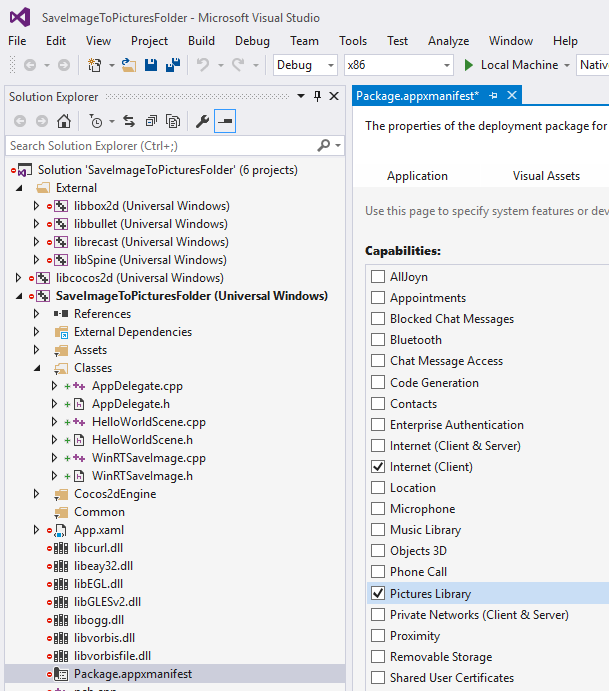
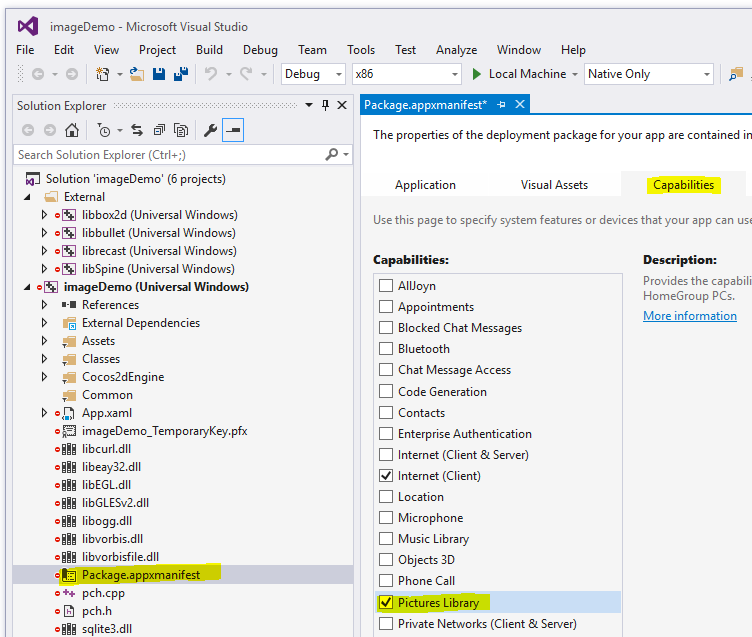
updated readme

Changed region(s): [[0.0, 0.0, 1.0, 1.0]]

diff --git a/examples/SaveImageToPicturesFolder/README.md b/examples/SaveImageToPicturesFolder/README.md
@@ -1,1 +1,59 @@
-# cocos2d-x-win10-examples
+# How to Save a Cocos2d-x Screen Capture Image to a User's Pictures Folder (Windows 10 and Windows 8.1) #
+
+This example demonstrates how to save a Cocos2d-x screen capture image to the user's Pictures Folder on Windows 10 and Windows 8.1. The cocos2d function 
+cocos2d::utils::captureScreen() will save a screen capture to the writeable folder of the Windows 10 application. However, this folder is not easily
+accessible to the user. On Windows 10, each user has a Pictures folder located at C:\Users\<username>\Pictures. This example shows how to modify a Cocos2d-x
+Windows 10 app to save the screen capture to the Pictures folder. These instructions will also works for Windows 8.1 Store and Phone projects.
+
+
+
+---
+
+##Setup##
+
+
+1. Download or clone this repo
+
+
+1. Create a new Cocos2d-x project
+
+	$ cocos new imageDemo -l cpp -d projects
+
+
+1. Open the Windows 10 UWP imageDemo solution in your project's proj.win10 folder.
+
+![](Images/open-project.png "")
+
+
+1. Double click on the Package.AppManifest file and navigate to the **Add | Reference** menu item.
+
+![](Images/permissions.png "")
+
+
+1. Copy the files in this repo's Classes folder into your project's Classes folder
+
+![](Images/classes.png "")
+
+1. Add the new Classes files to the Classes folder in your imageDemo project
+
+![](Images/add-classes.png "")
+
+1. Select the Debug | x86 project configuration. Build and run the solution
+
+![](Images/config.png "")
+    
+1. When the app runs, click on the Save Screen to Pictures Folder menu item
+
+![](Images/app.png "")
+
+1. The app saves the file to the user's Pictures folder.
+
+![](Images/capture.png "")
+
+1. For an example on how to save to the user's Pictures folder on Windows 10 , take a look at the following files:
+ 
+* [HelloWorldScene.cpp](https://github.com/stammen/cocos2d-x-win10-examples/blob/master/examples/SaveImageToPicturesFolder/Classes/HelloWorldScene.cpp)
+* [HelloWorldScene.h](https://github.com/stammen/cocos2d-x-win10-examples/blob/master/examples/SaveImageToPicturesFolder/Classes/HelloWorldScene.h) 
+
+Look for the code inside of **#if CC_TARGET_PLATFORM == CC_PLATFORM_WINRT**
+This code will also work for Windows 8.1 Universal Apps.
